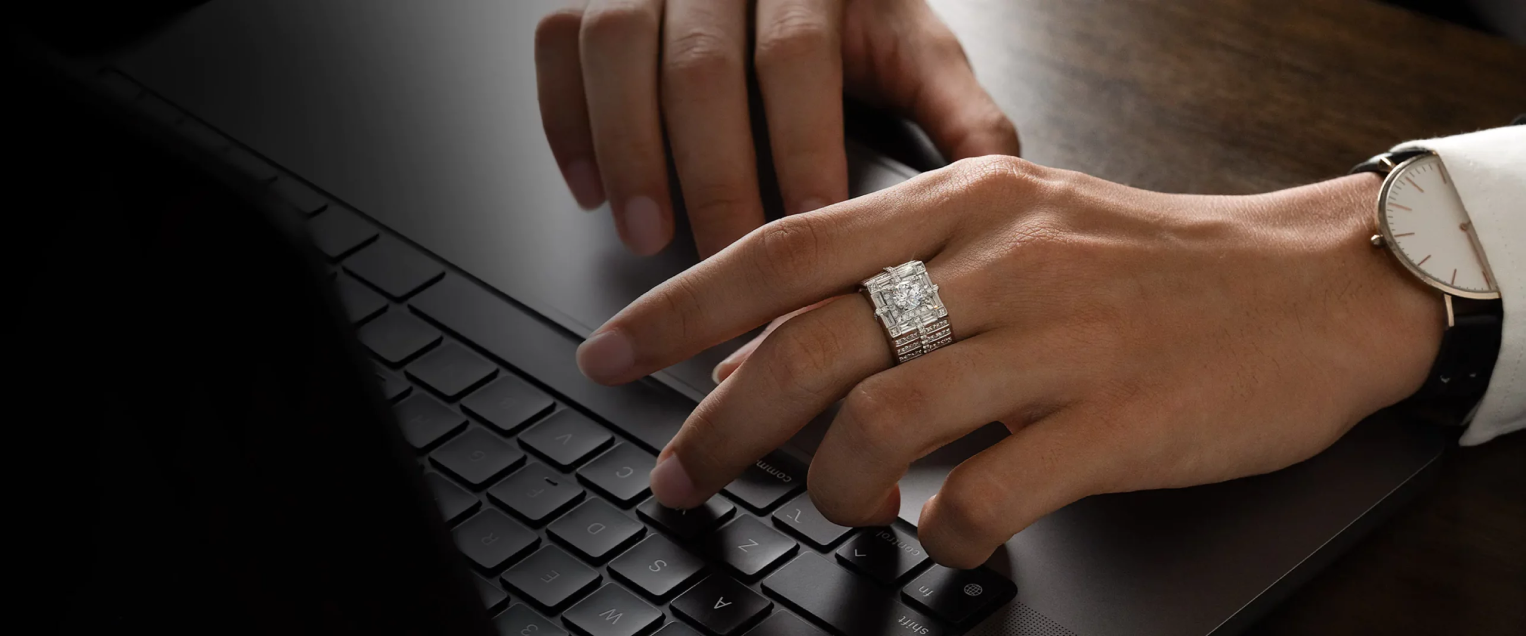
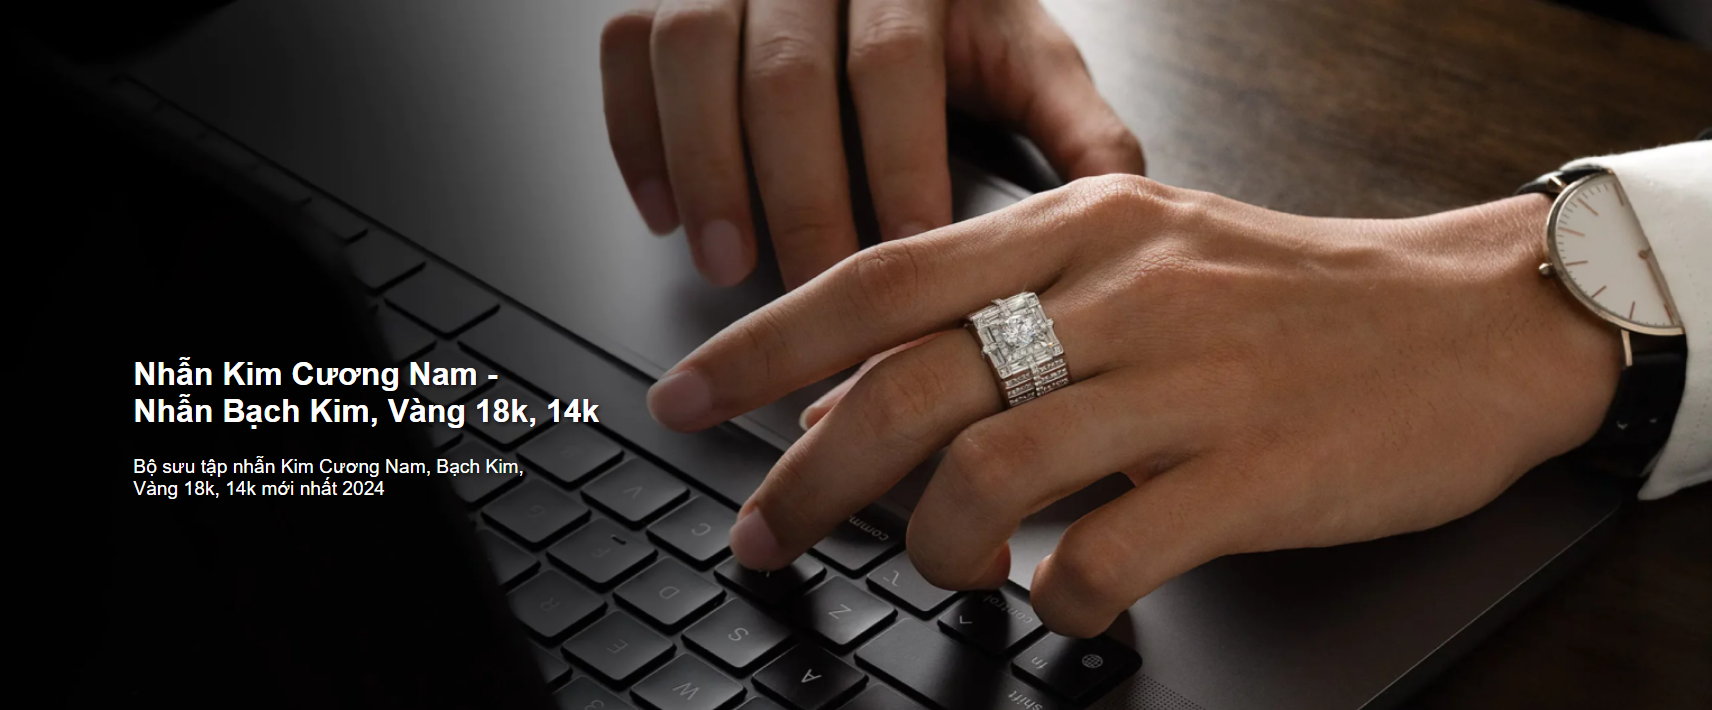
add idea html, js product

diff --git a/src/main/resources/static/js/User/ProductDropDown.js b/src/main/resources/static/js/User/ProductDropDown.js
@@ -1,9 +1,56 @@
 document.addEventListener('DOMContentLoaded', () => {
-    const categoryButtons = document.querySelectorAll('.category-btn');
+    // Danh Mục Hình Ảnh
+    const categoryImages = {
+        "NONE": "/static/images/TrangSucKC.png",
+        "NHẪN KIM CƯƠNG": "/static/images/NHAN-KIM-CUONG-TU-NHIEN.png",
+        "NHẪN KIM CƯƠNG NAM": "/static/images/Nhẫn_Nam.png",
+        "NHẪN KIM CƯƠNG NỮ": "/static/images/NHAN-KIM-CUONG-NU-qq4mh7dqwwqfbwiobx4vm2j4kgef7s87on8dkal568 1.png",
+        "BÔNG TAI KIM CƯƠNG": "/static/images/BONG-TAI-KIM-CUONG-TU-NHIEN-qq4mgmpaqjy48hcpoo7337qzhz8cify49svp07fsz4%201.png",
+        "LẮC/VÒNG KIM CƯƠNG": "/static/images/VONG-TAY-KCTN-qq4mhewgfl0pws7r40dw60mtbjdcxd22dog9ei9zsg%201.png",
+        "MẶT DÂY CHUYỀN KIM CƯƠNG": "/static/images/DAY-CHUYEN-KIM-CUONG-TU-NHIEN-qq4mgv5ug29p4z0fb9uq7nm4ug2nfpvpayr2bp39f4%201.png",
+        "DEFAULT": "/static/images/default-image.jpg"
+    };
 
-    const fetchProductsByCategory = (keyword) => {
-        fetch(`http://localhost:8080/product-management/products/category/${keyword}`)
-            .then(response => response.json())
+    const updateContentAndFetchProducts = (category, title) => {
+        //console.log("category: ",category);
+
+        // Cập nhật tiêu đề sản phẩm
+        const contentProduct = document.getElementById('content-product');
+        if (contentProduct) {
+            contentProduct.textContent = title;
+        } else {
+            console.error('Element with ID content-product not found');
+        }
+
+        const wrapperImage = document.querySelector('.wrapper img');
+        if (wrapperImage) {
+            const formattedCategory = category.toUpperCase(); // Chuyển category thành chữ in hoa
+            wrapperImage.src = categoryImages[formattedCategory] || categoryImages['DEFAULT'];
+
+            console.log(wrapperImage);
+            if(category == "None"){
+                categoryIndex = "Kim Cương";
+            }
+            else {
+                categoryIndex = category;
+            }
+            //console.log(categoryIndex);
+        } else {
+            console.error('Wrapper image element not found');
+        }
+
+        const productList = document.getElementById('product-list');
+
+        productList.innerHTML = '';
+
+        // Gọi API để lấy sản phẩm theo danh mục
+        fetch(`http://localhost:8080/product-management/products/category/${categoryIndex}`)
+            .then(response => {
+                if (!response.ok) {
+                    throw new Error('Network response was not ok');
+                }
+                return response.json();
+            })
             .then(responseData => {
                 if (!responseData || !responseData.data || !Array.isArray(responseData.data)) {
                     console.error('Expected an array of products but received:', responseData);
@@ -11,38 +58,42 @@ document.addEventListener('DOMContentLoaded', () => {
                 }
 
                 const products = responseData.data;
-                const productList = document.getElementById('product-list');
 
-                // Clear existing products
-                productList.innerHTML = '';
-
-                products.forEach(product => {
-                    const listItem = document.createElement('li');
-                    listItem.innerHTML = `
-                        <div class="product-item">
-                            <div class="product-top">
-                                <a href="#" class="product-thumb">
-                                    <div class="card">
-                                        <img src="${product.imageURL || 'https://via.placeholder.com/150'}" alt="font">
-                                        <img src="${product.subImageURL || 'https://via.placeholder.com/150'}" alt="back">
-                                    </div>
-                                </a>
-                                <a href="#" class="buy-now">Xem chi tiết</a>
+                if (products.length === 0) {
+                    const emptyMessage = document.createElement('li');
+                    emptyMessage.textContent = 'Không có sản phẩm nào trong danh mục này.';
+                    productList.appendChild(emptyMessage);
+                } else {
+                    products.forEach(product => {
+                        const listItem = document.createElement('li');
+                        listItem.innerHTML = `
+                            <div class="product-item">
+                                <div class="product-top">
+                                    <a href="#" class="product-thumb">
+                                        <div class="card">
+                                            <img src="${product.imageURL || 'https://via.placeholder.com/150'}" alt="font">
+                                            <img src="${product.subImageURL || 'https://via.placeholder.com/150'}" alt="back">
+                                        </div>
+                                    </a>
+                                    <a href="#" class="buy-now">Xem chi tiết</a>
+                                </div>
+                                <div class="product-info">
+                                    <a href="#" class="product-name">${product.productName || 'Tên sản phẩm'}</a>
+                                    <div class="product-price" id="price-${product.productId}"></div>
+                                </div>
                             </div>
-                            <div class="product-info">
-                                <a href="#" class="product-name">${product.productName || 'Tên sản phẩm'}</a>
-                                <div class="product-price" id="price-${product.productId}"></div>
-                            </div>
-                        </div>
-                    `;
-                    productList.appendChild(listItem);
+                        `;
+                        productList.appendChild(listItem);
 
-                    // Gọi hàm minPrice để lấy giá tối thiểu và hiển thị
-                    fetchMinPrice(product.productId);
-                });
+                        // Gọi hàm minPrice để lấy giá tối thiểu và hiển thị
+                        fetchMinPrice(product.productId);
+                    });
+                }
             })
             .catch(error => {
                 console.error('Error fetching products:', error);
+                const errorMessage = document.createElement('li');
+                productList.appendChild(errorMessage);
             });
     };
 
@@ -67,12 +118,15 @@ document.addEventListener('DOMContentLoaded', () => {
             });
     };
 
-    categoryButtons.forEach(button => {
-        button.addEventListener('click', () => {
-            const category = button.getAttribute('data-category');
-            fetchProductsByCategory(category);
-        });
+    // Xử lý sự kiện khi chọn danh mục từ thẻ select
+    const categorySelector = document.getElementById('category-selector');
+    categorySelector.addEventListener('change', (event) => {
+        const selectedOption = event.target.options[event.target.selectedIndex];
+        const category = selectedOption.value;
+        const title = selectedOption.getAttribute('data-title');
+        updateContentAndFetchProducts(category, title);
     });
 
-    fetchProductsByCategory('Bông Tai');
+    // Fetch mặc định cho danh mục đầu tiên
+    updateContentAndFetchProducts("None", 'Trang sức kim cương tự nhiên');
 });

diff --git a/src/main/resources/templates/User/product.html b/src/main/resources/templates/User/product.html
@@ -1,11 +1,12 @@
 <!DOCTYPE html>
 <html lang="vi">
+
 <head>
     <meta charset="UTF-8">
     <meta name="viewport" content="width=device-width, initial-scale=1.0">
-    <title>Vòng tay kim cương</title>
+    <title>Mặt dây chuyền kim cương</title>
     <link rel="stylesheet" href="https://cdnjs.cloudflare.com/ajax/libs/font-awesome/6.6.0/css/all.min.css"/>
-    <link rel="stylesheet" href="/static/css/User/diamond_bracelets.css">
+    <link rel="stylesheet" href="/static/css/User/diamond_pendant.css">
 </head>
 
 <body>
@@ -14,6 +15,7 @@
     <p class="center" id="center-text">hello</p>
     <p class="address">Liên hệ </p>
 </div>
+
 <div class="header">
     <div class="header-content">
         <div class="icons">
@@ -25,20 +27,21 @@
         <a href="home.html" class="logo"><img src="/static/images/logo.jpg" alt="logo"></a>
     </div>
 </div>
+
 <ul id="main-menu">
     <li><a href="about_us.html">VỀ CHÚNG TÔI </a></li>
     <li><a href="">TRANG SỨC KIM CƯƠNG </a>
-        <ul class="sub-menu">
-            <li class="has-child"><a href="">NHẪN KIM CƯƠNG</a>
-                <ul class="sub-menu">
-                    <li><a href="men's_diamond.html">NHẪN KIM CƯƠNG NAM</a></li>
-                    <li><a href="female_diamond.html">NHẪN KIM CƯƠNG NỮ</a></li>
-                </ul>
-            </li>
-            <li><a href="diamond_earrings.html">BÔNG TAI KIM CƯƠNG</a></li>
-            <li><a href="diamond_bracelets.html">LẮC/VÒNG TAY KIM CƯƠNG</a></li>
-            <li><a href="diamond_pendant.html">MẶT DÂY CHUYỀN KIM CƯƠNG</a></li>
-        </ul>
+<!--        <ul class="sub-menu Product_Drop">-->
+<!--            <li class="has-child"><a href="#" data-category="NHẪN KIM CƯƠNG" data-title="NHẪN KIM CƯƠNG">NHẪN KIM CƯƠNG</a>-->
+<!--                <ul class="sub-menu">-->
+<!--                    <li><a href="#" data-category="Nhẫn Kim Cương Nam" data-title="Nhẫn Kim Cương Nam">NHẪN KIM CƯƠNG NAM</a></li>-->
+<!--                    <li><a href="#" data-category="Nhẫn Kim Cương Nữ" data-title="Nhẫn Kim Cương Nữ">NHẪN KIM CƯƠNG NỮ</a></li>-->
+<!--                </ul>-->
+<!--            </li>-->
+<!--            <li><a href="#" data-category="Bông Tai" data-title="Bông Tai Kim Cương">BÔNG TAI KIM CƯƠNG</a></li>-->
+<!--            <li><a href="#" data-category="Lắc/Vòng" data-title="Lắc/Vòng Tay Kim Cương">LẮC/VÒNG TAY KIM CƯƠNG</a></li>-->
+<!--            <li><a href="#" data-category="Mặt Dây Chuyền" data-title="Mặt Dây Chuyền Kim Cương">MẶT DÂY CHUYỀN KIM CƯƠNG</a></li>-->
+<!--        </ul>-->
     </li>
     <li><a href="">BẢNG GIÁ</a>
         <ul class="sub-menu">
@@ -51,25 +54,43 @@
     <li><a href="contact.html">LIÊN HỆ</a></li>
 </ul>
 
-<!---->
-
 <div class="wrapper">
     <div class="headline">
-        <img src="/static/images/VONG-TAY-KCTN-qq4mhewgfl0pws7r40dw60mtbjdcxd22dog9ei9zsg%201.png" alt="">
+        <img src="/static/images/TrangSucKC.png"
+             alt="">
     </div>
 </div>
+
+<div class="category-select">
+    <select id="category-selector">
+        <option value="None" data-title="Danh mục sản phẩm">DANH MỤC SẢN PHẨM</option>
+        <option value="Nhẫn Kim Cương" data-title="Nhẫn Kim Cương">NHẪN KIM CƯƠNG</option>
+        <option value="Nhẫn Kim Cương Nam" data-title="Nhẫn Kim Cương Nam">NHẪN KIM CƯƠNG NAM</option>
+        <option value="Nhẫn Kim Cương Nữ" data-title="Nhẫn Kim Cương Nữ">NHẪN KIM CƯƠNG NỮ</option>
+        <option value="Bông Tai Kim Cương" data-title="Bông Tai Kim Cương">BÔNG TAI KIM CƯƠNG</option>
+        <option value="Lắc/Vòng Kim Cương" data-title="Lắc/Vòng Kim Cương">LẮC/VÒNG TAY KIM CƯƠNG</option>
+        <option value="Mặt Dây Chuyền Kim Cương" data-title="Mặt Dây Chuyền Kim Cương">MẶT DÂY CHUYỀN KIM CƯƠNG</option>
+    </select>
+</div>
+
+<div class="category-price">
+<!--chưa biết giá ra sao-->
+</div>
+
 
 <div id="body1">
     <div class="body-top">
         <div class="body-text">
-            <h2>Lắc/Vòng tay kim cương</h2>
+            <h2 id = "content-product">Mặt dây chuyền kim cương</h2>
         </div>
     </div>
 
-    <ul class="products" id = "product-list">
-        <!--   Product    -->
+
+    <ul class="products" id="product-list">
+        <!--  Product    -->
     </ul>
 </div>
+
 
 <footer class="footer">
     <div class="grid">
@@ -115,6 +136,8 @@
 </footer>
 
 <script src="/static/js/User/about_us.js"></script>
+<script src="/static/js/User/ProductDropDown.js"></script>
 
 </body>
+
 </html>
